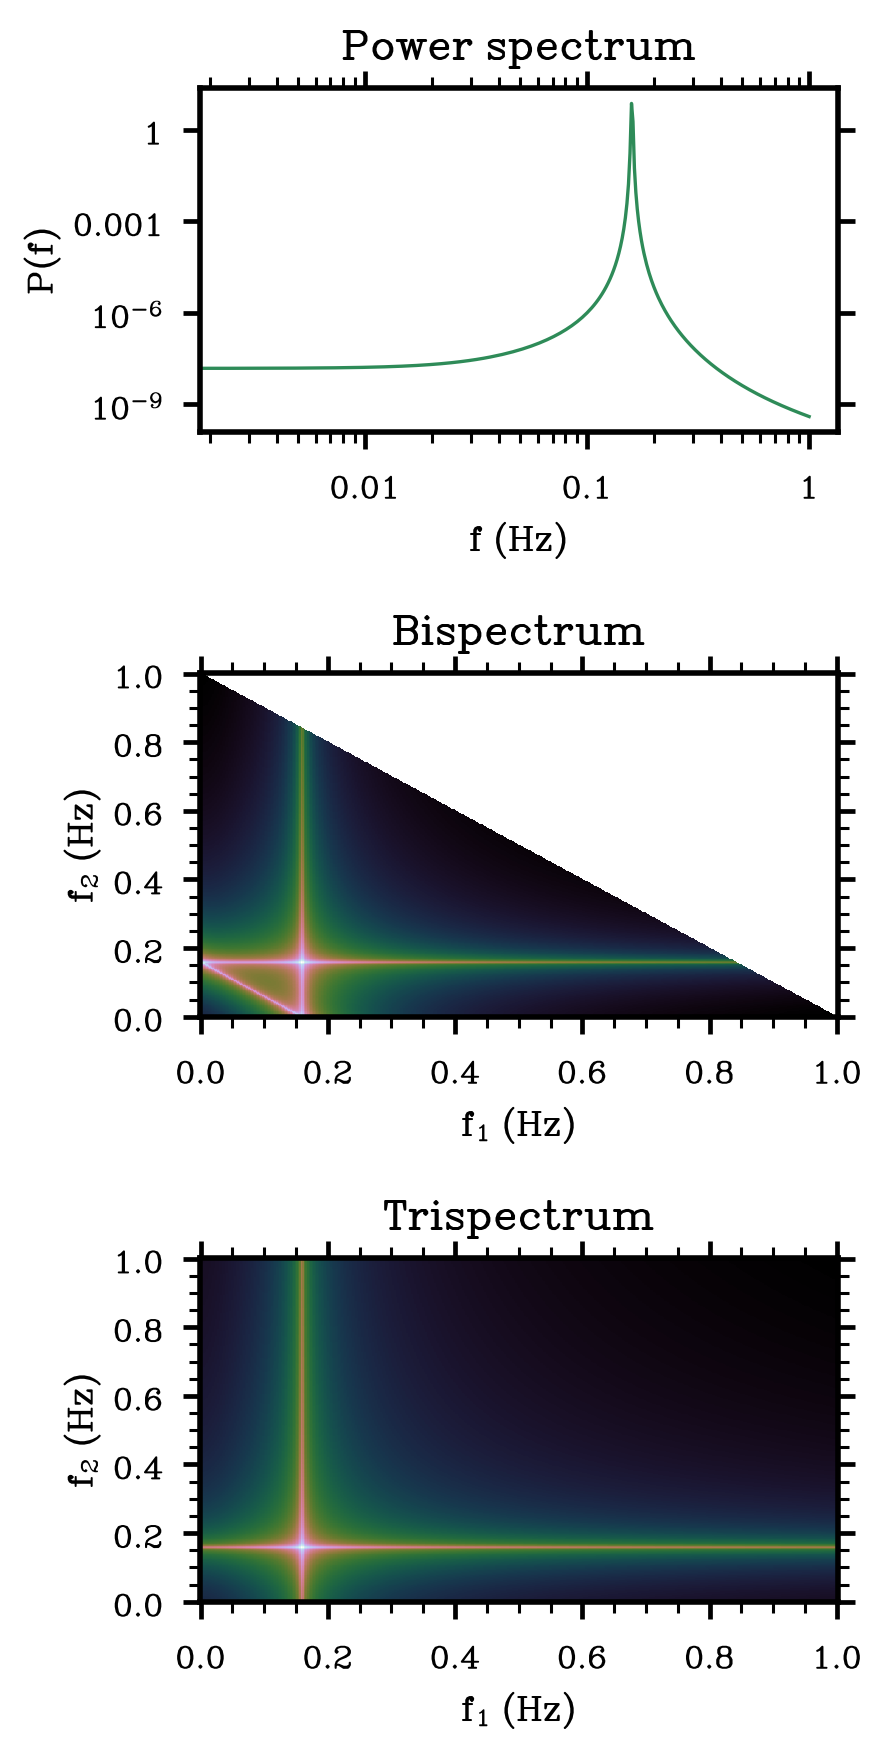
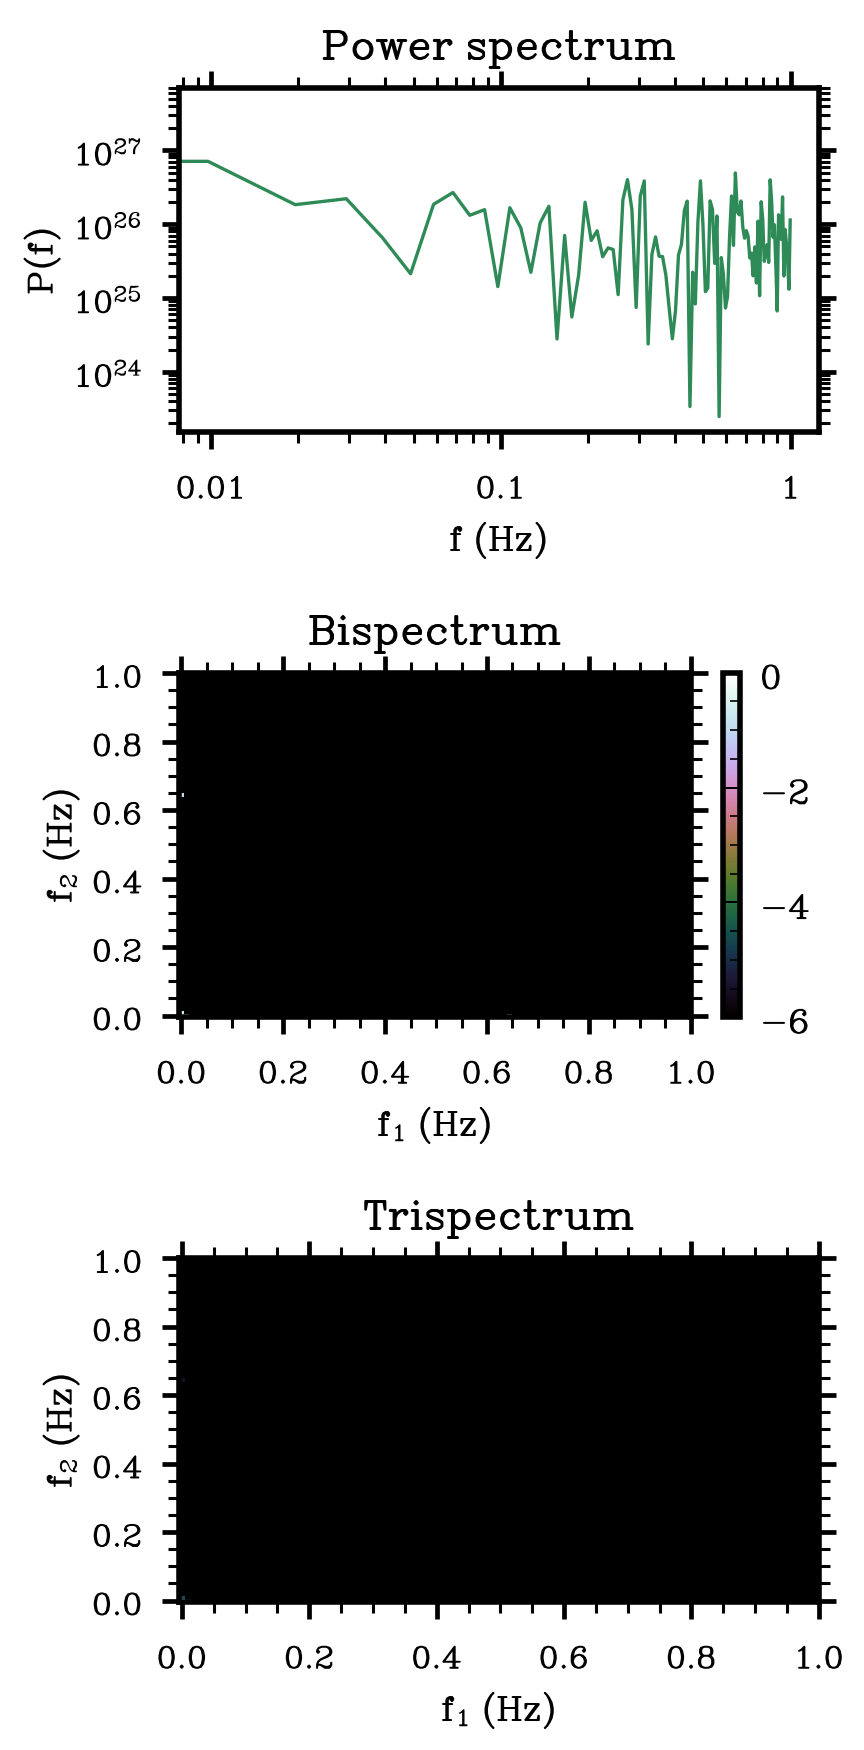
add python polyspectra plotting function

diff --git a/cvpy/src/get_cvs.py b/cvpy/src/get_cvs.py
@@ -71,7 +71,12 @@ class CV:
 
     def extract_lightcurves_from_tpf(self):
         lc_arr = []
-        search_result = lk.search_targetpixelfile(self.source, author=self.telescope)
+        if self.telescope == "":
+            search_result = lk.search_targetpixelfile(self.source)
+        else:
+            search_result = lk.search_targetpixelfile(
+                self.source, author=self.telescope
+            )
         search_download = search_result.download_all()[: self.nobs]
         for dataset in search_download:
             lc_arr.append(dataset.to_lightcurve())
@@ -112,7 +117,7 @@ class CV:
 
         return s2, s3, s4, compactS4
 
-    def plot_polyspectrum(self, s2, s3, compactS4, n, t):
+    def plot_polyspectrum(self, s2, s3, compactS4, n, t, vmin):
         fig = plt.figure(figsize=(8, 9))
 
         ax = plt.subplot(321)
@@ -183,11 +188,14 @@ class CV:
         for spine in ax.spines.values():
             spine.set_zorder(11)
 
+        s3 = s3 / np.max(s3)
+        s3[s3 <= vmin] = 1e-6
         plt.pcolormesh(x, x, np.log10(s3), cmap="cubehelix", rasterized=True)
 
         plt.title(r"$\rm Bispectrum$")
         plt.xlabel(r"$\rm f_1\;(Hz)$")
         plt.ylabel(r"$\rm f_2\;(Hz)$")
+        plt.colorbar()
 
         ax = plt.subplot(325)
         ax.xaxis.set_minor_locator(AutoMinorLocator())
@@ -218,6 +226,9 @@ class CV:
 
         for spine in ax.spines.values():
             spine.set_zorder(11)
+
+        compactS4 = compactS4 / np.max(compactS4)
+        compactS4[compactS4 <= vmin] = vmin
 
         plt.pcolormesh(x, x, np.log10(compactS4), cmap="cubehelix", rasterized=True)
 

diff --git a/main.py b/main.py
@@ -7,18 +7,17 @@ import numpy as np
 
 def main():
     filename = "test.png"
-    print("test")
-    CV_library = CV(source="RR Lyr", telescope="Kepler", nobs=1)
-    lc_array = np.array(CV_library.extract_lightcurves_from_tpf().flux)
-    print("test")
+    CV_library = CV(source="V452 Lyr", telescope="Kepler", nobs=1)
+    lc_array = np.array(CV_library.extract_lightcurves_from_tpf()[0].flux)
     # CV_library.plot_lightcurves(lc_array, filename)
-    m = 10
-    n = 128
+    print(min(lc_array), max(lc_array))
+    m = 5
+    n = 1024
     t = n / 10
     sigmaT = 0.14
     print(lc_array)
     s2, s3, s4, compactS4 = CV_library.calculate_polyspectrum(lc_array, m, n, t, sigmaT)
-    CV_library.plot_polyspectrum(s2, s3, compactS4, n, t)
+    CV_library.plot_polyspectrum(s2, s3, compactS4, n, t, vmin=np.sqrt(9.2 / n))
 
 
 if __name__ == "__main__":
